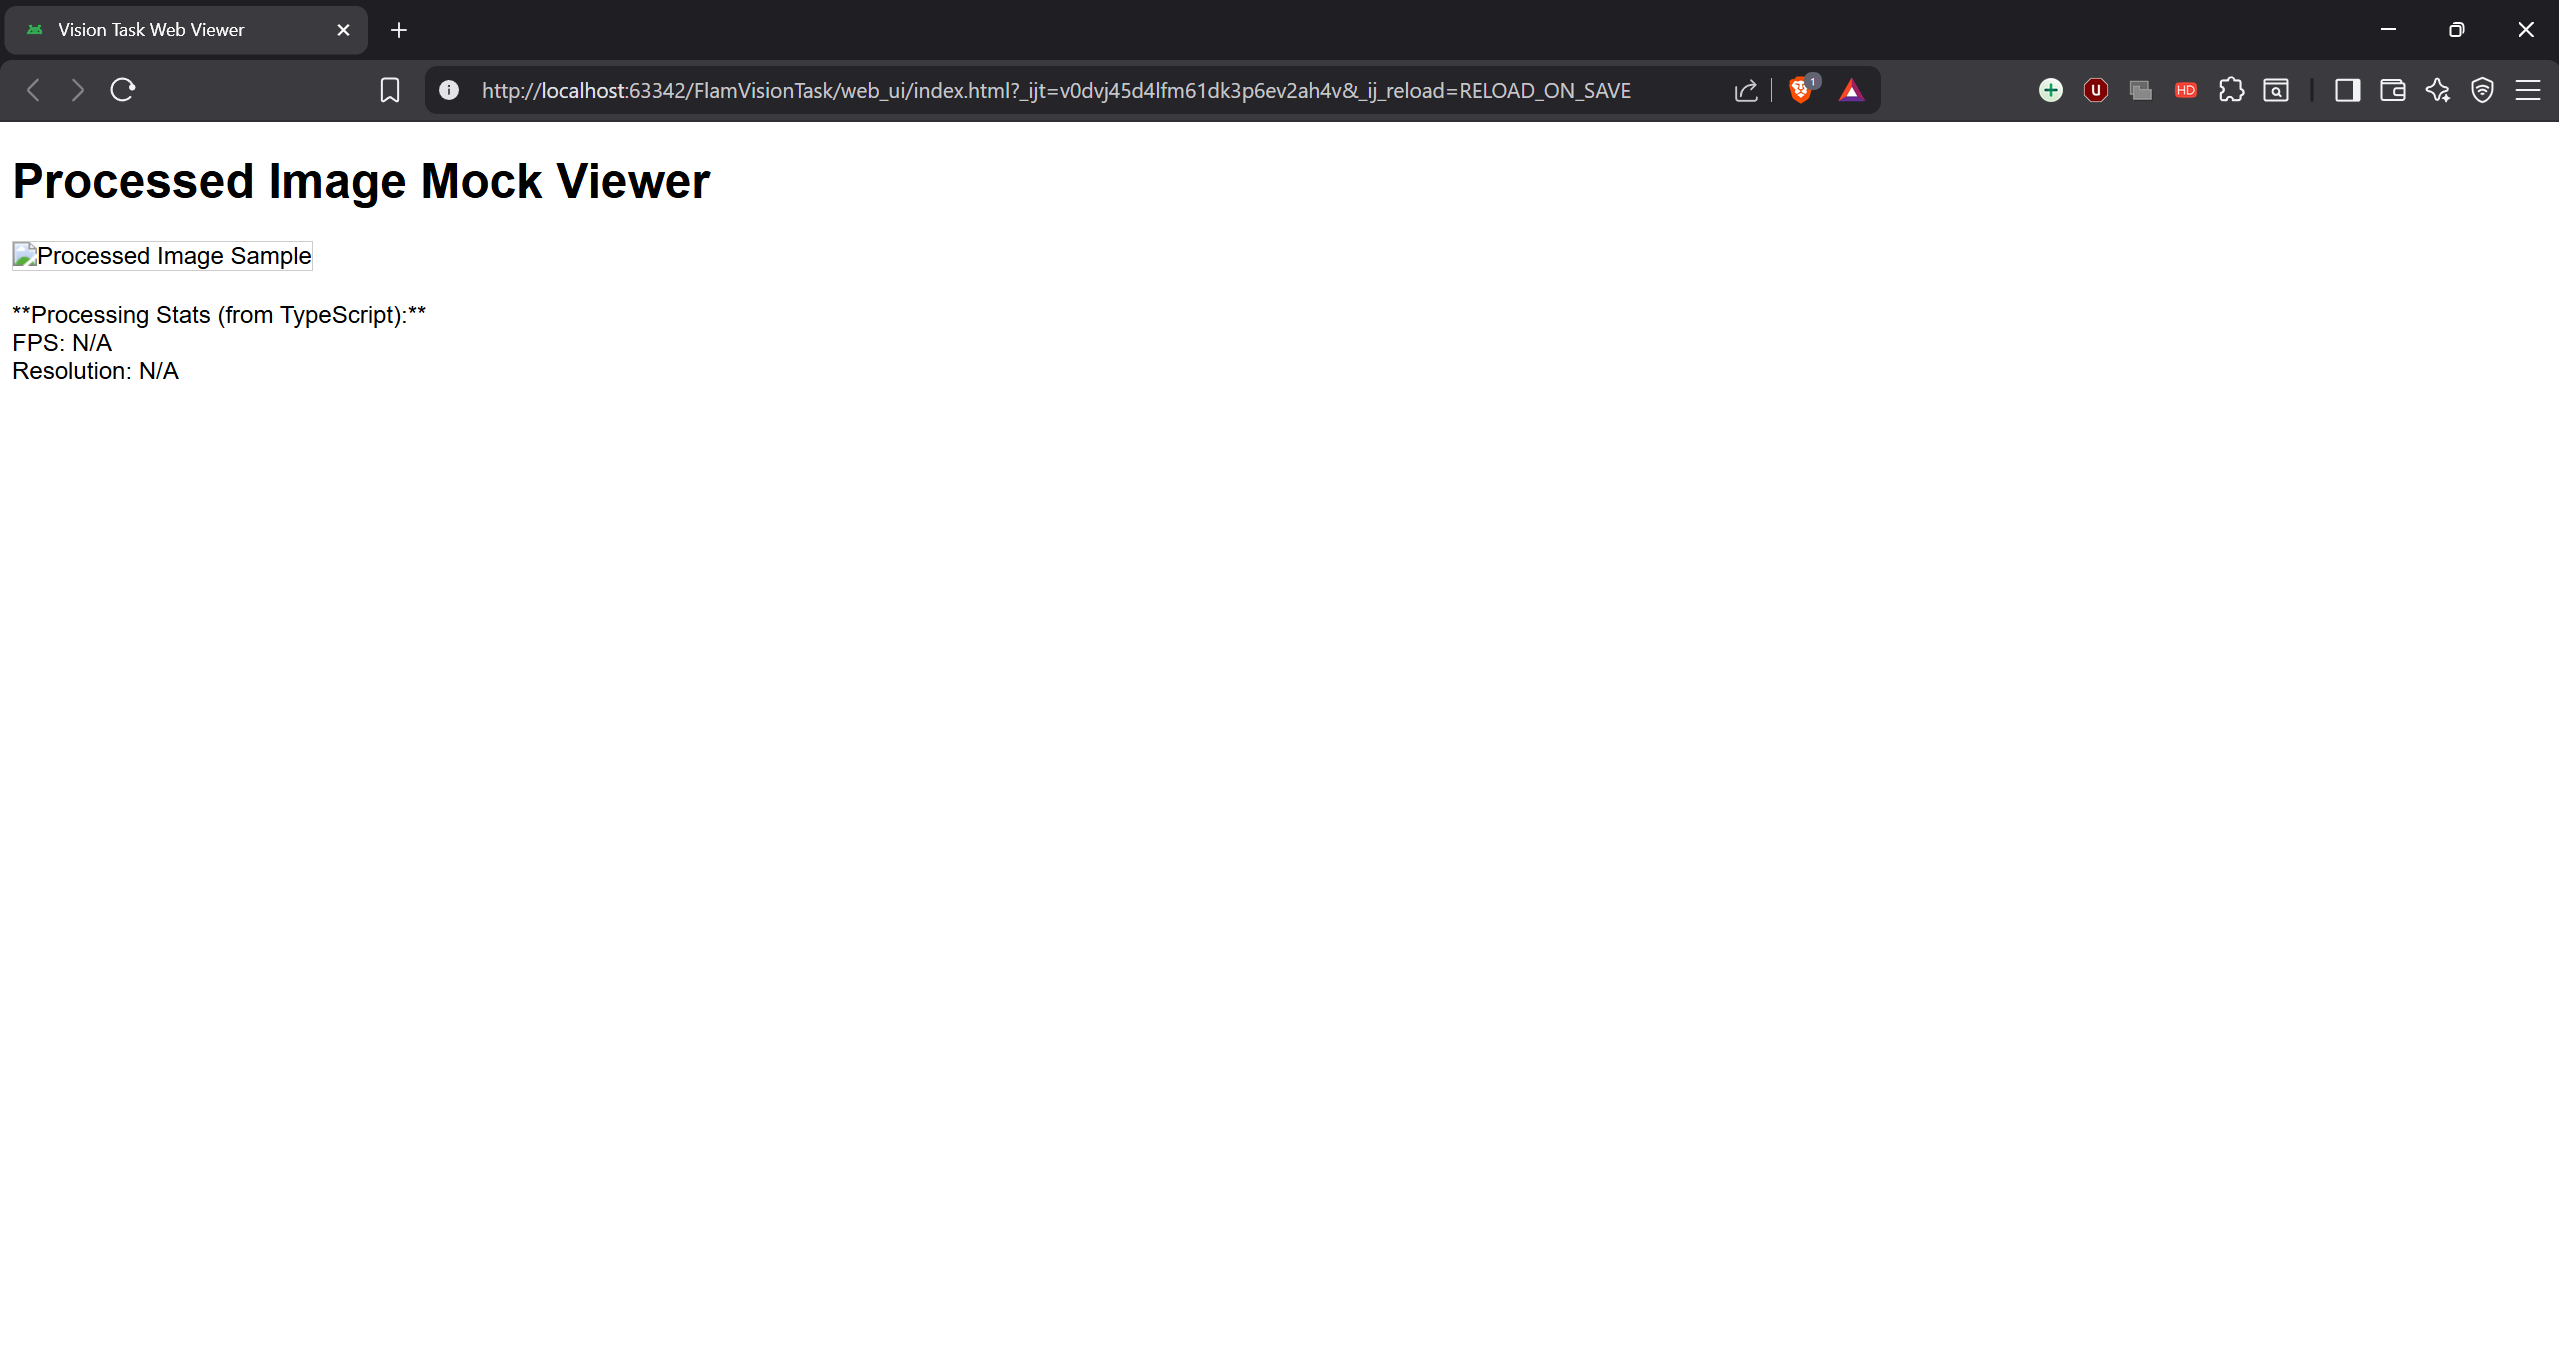
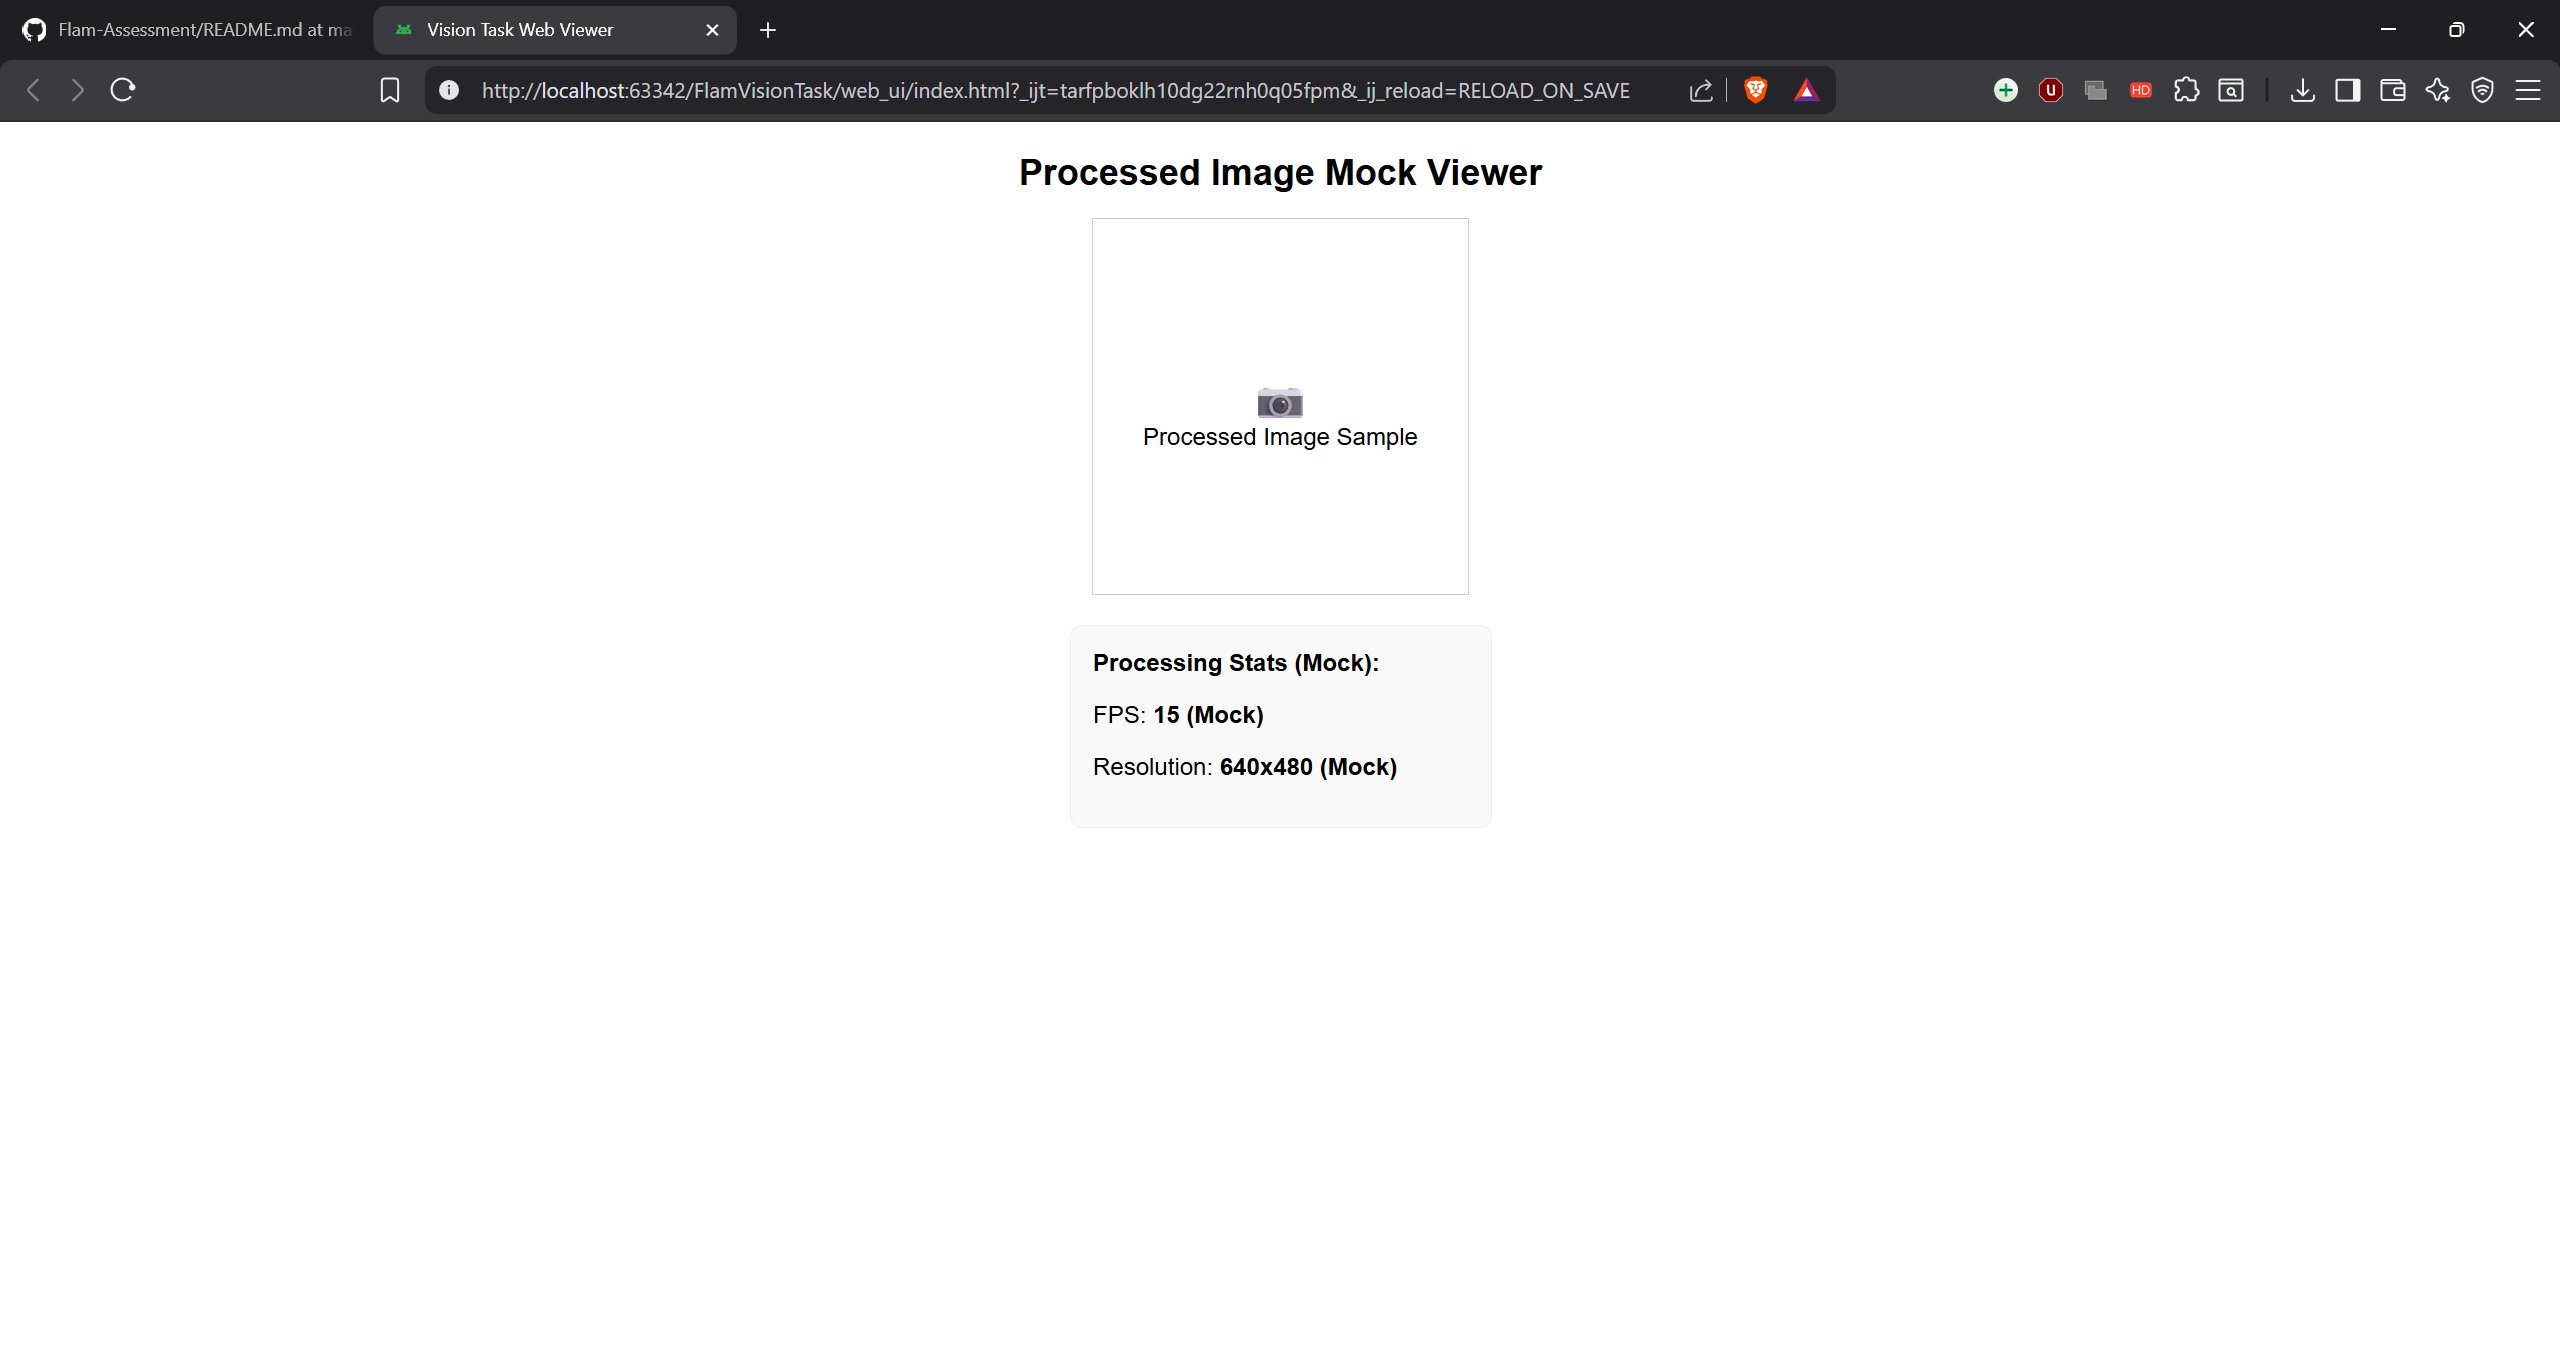
Final Submission.

diff --git a/web_ui/index.html b/web_ui/index.html
@@ -4,19 +4,46 @@
     <meta charset="UTF-8">
     <meta name="viewport" content="width=device-width, initial-scale=1.0">
     <title>Vision Task Web Viewer</title>
-    <style>body { font-family: sans-serif; }</style>
+    <style>
+        body { font-family: sans-serif; margin: 20px; text-align: center; }
+        h1 { font-size: 24px; font-weight: bold; }
+        .stats-box {
+            border: 1px solid #eee;
+            padding: 15px;
+            margin: 20px auto; /* Centers the box */
+            width: 250px; /* Gives the box a set width */
+            background-color: #f9f9f9;
+            border-radius: 8px;
+            text-align: left; /* Aligns text inside the box */
+        }
+        .stat-label { font-weight: bold; }
+        .image-container {
+            width: 250px;
+            height: 250px;
+            border: 1px solid #ccc;
+            margin: 0 auto 10px; /* Centers and adds spacing */
+            display: flex;
+            flex-direction: column;
+            justify-content: center;
+            align-items: center;
+            text-align: center;
+        }
+        .image-icon { font-size: 30px; }
+    </style>
 </head>
 <body>
 <h1>Processed Image Mock Viewer</h1>
-<img id="processedImage" src="sample_edge_frame.png" alt="Processed Image Sample" style="max-width: 80%; border: 1px solid #ccc;">
 
-<p style="margin-top: 20px;">
-    **Processing Stats (from TypeScript):**
-    <br>
-    FPS: <span id="fps">N/A</span>
-    <br>
-    Resolution: <span id="res">N/A</span>
-</p>
-<script src="main.js"></script>
+<div class="image-container">
+    <span class="image-icon">📷</span>
+    Processed Image Sample
+</div>
+
+<div class="stats-box">
+    <p class="stat-label" style="margin-top: 0;">Processing Stats (Mock):</p>
+    <p>FPS: <span class="stat-label">15 (Mock)</span></p>
+    <p>Resolution: <span class="stat-label">640x480 (Mock)</span></p>
+</div>
+
 </body>
 </html>
